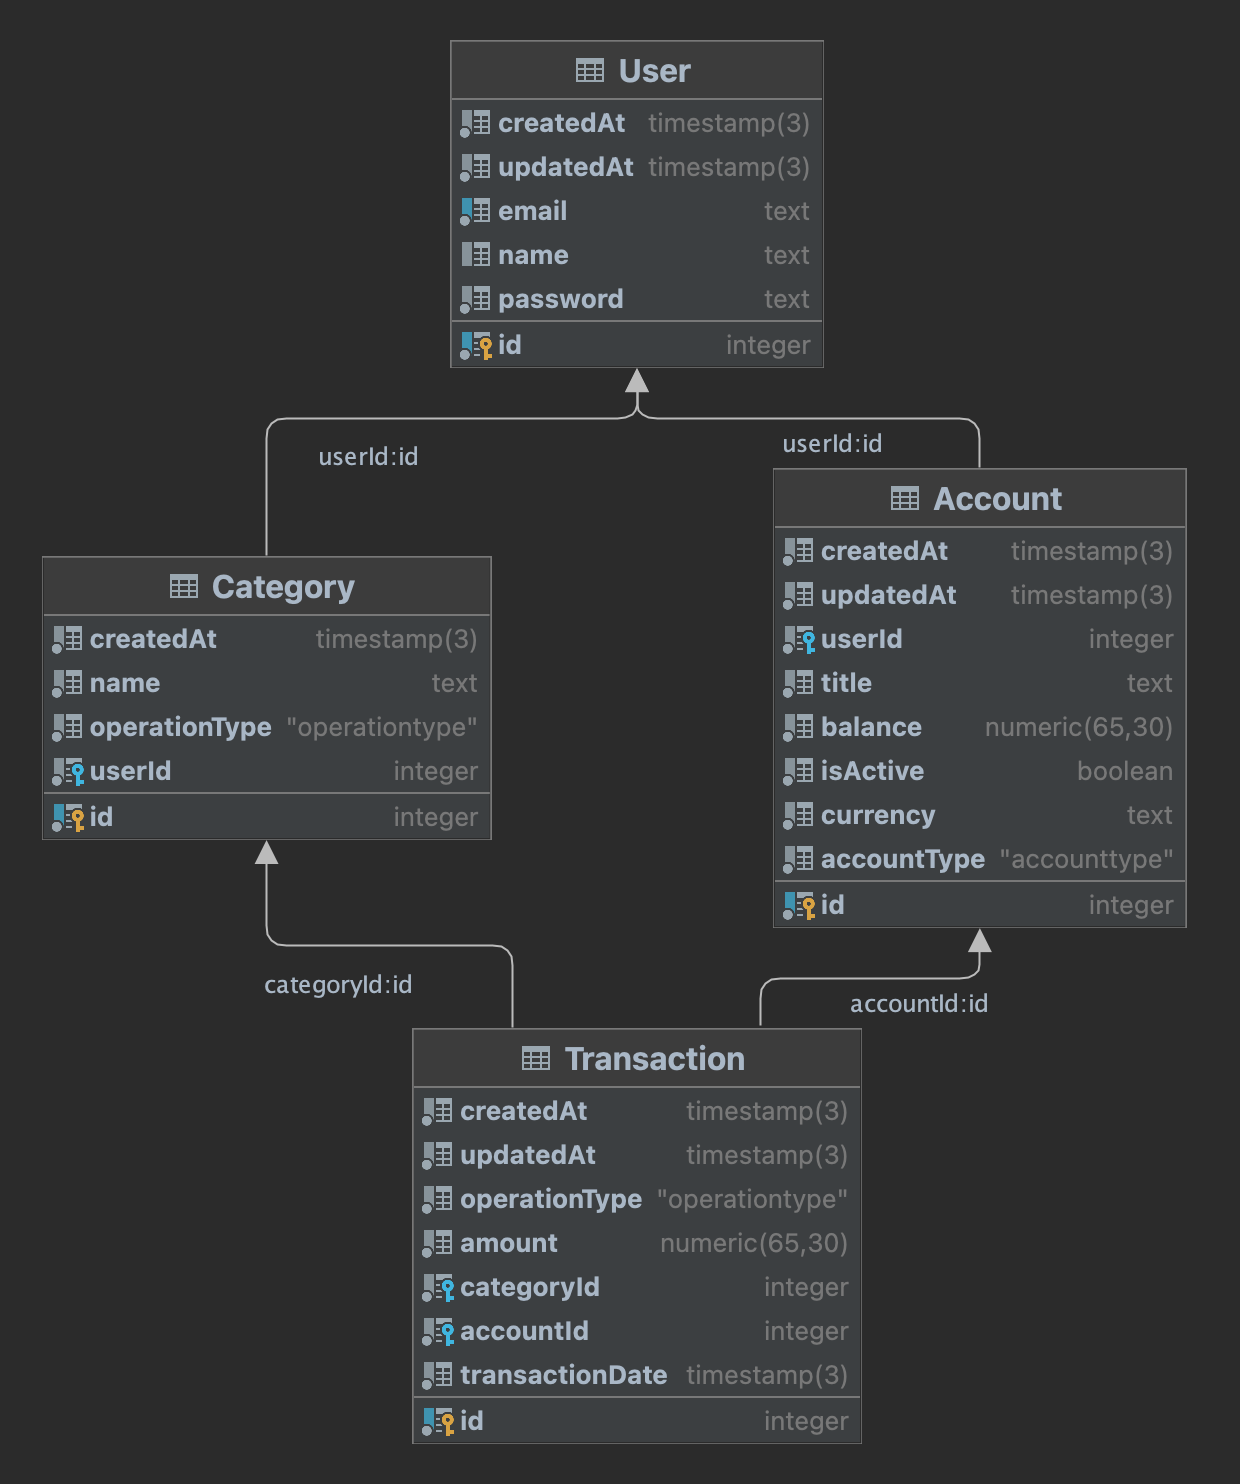
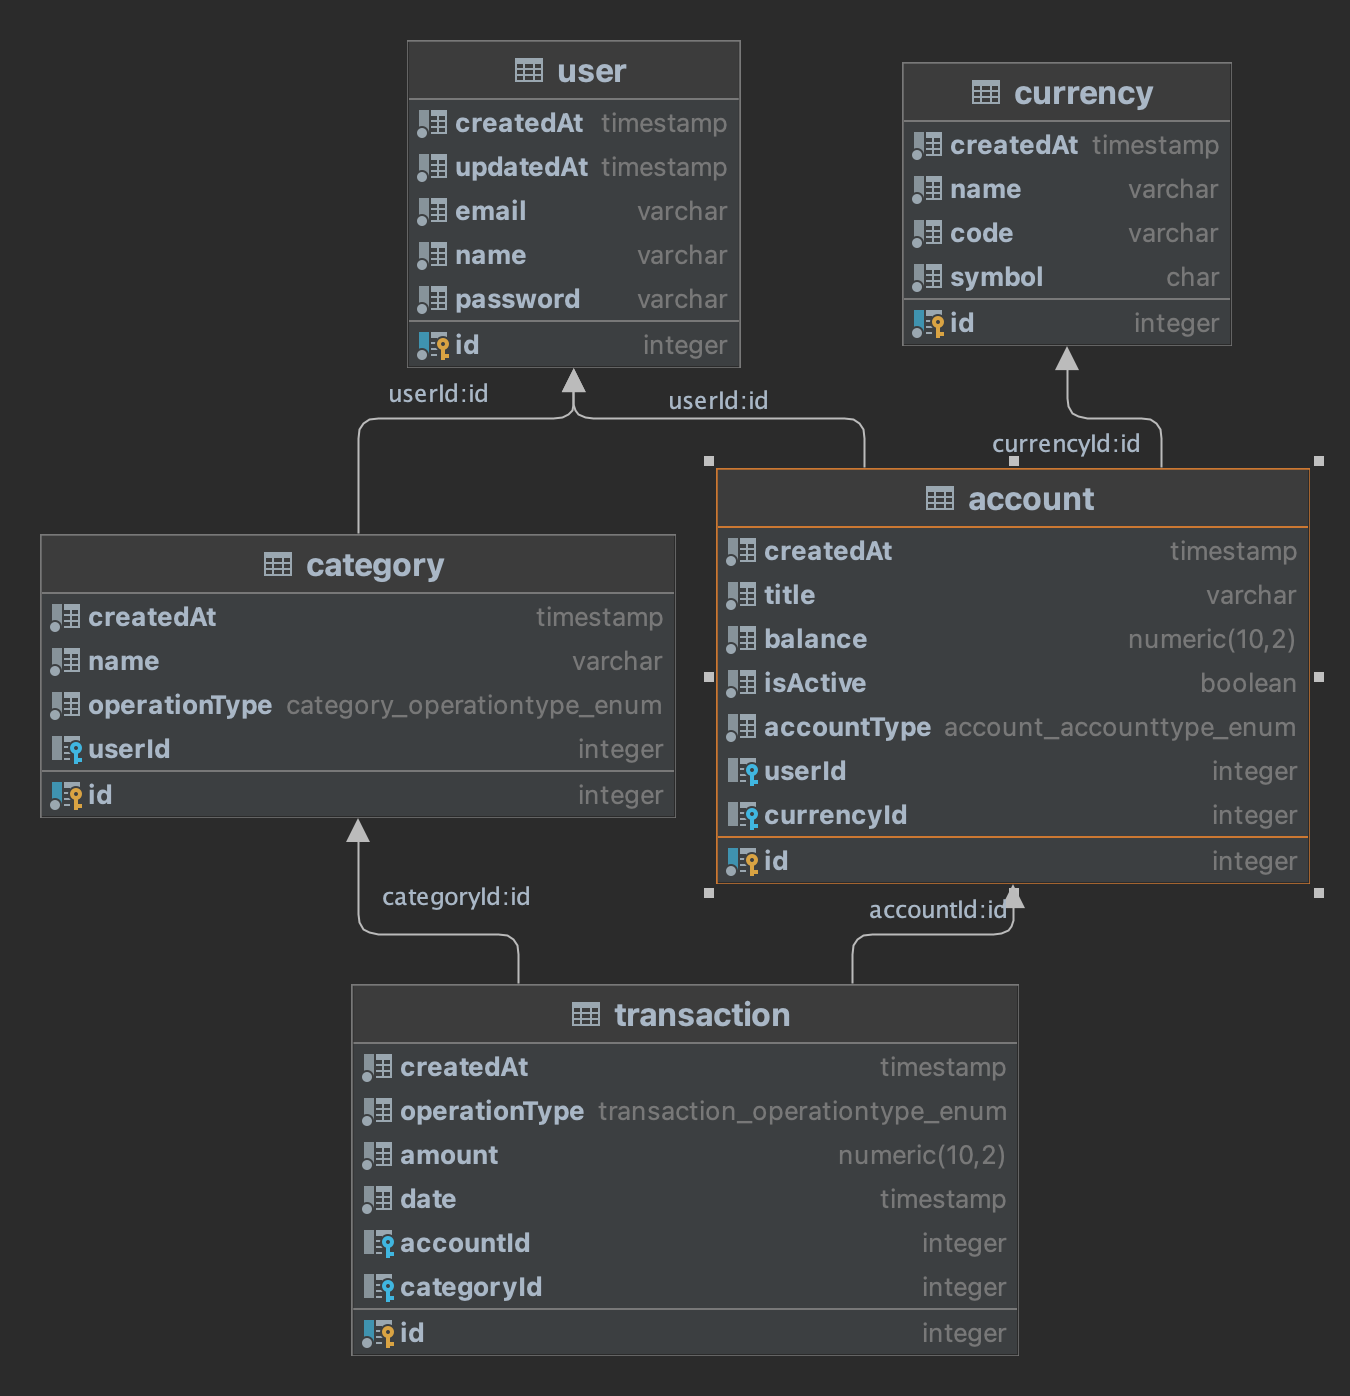
update: readme.md

diff --git a/README.md b/README.md
@@ -28,3 +28,5 @@
 **Transaction**: операция снятия или добавления определенной суммы денег в добавленном счете и указанной валюте, имеет дату.  
 
 **Category**: пользователь может добавлять собственные категории для операций добавления и снятия, у каждой категории есть список транзакций в этой категории.
+
+**Currency**: валюта с названием, трехбуквенным кодом и символом. Каждый счет имеет свою валюту.
